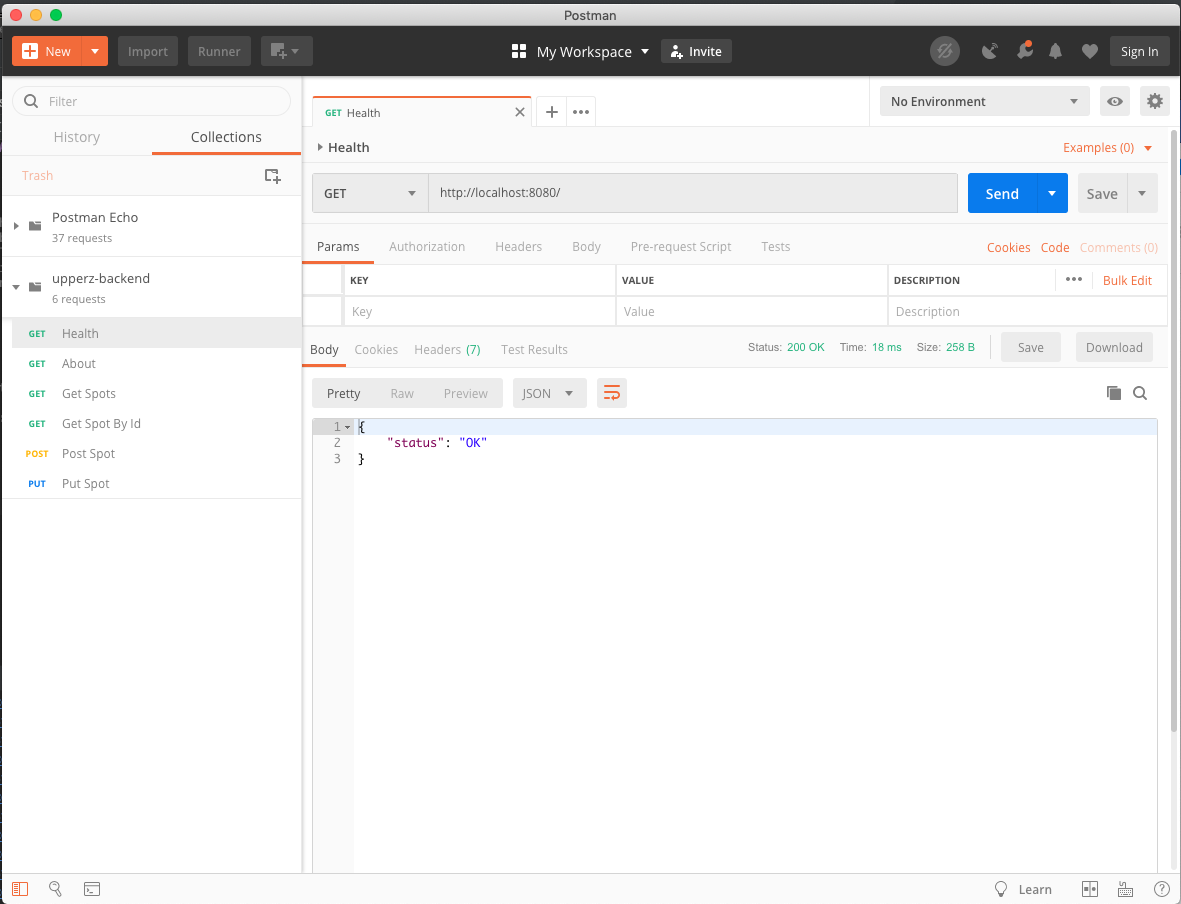
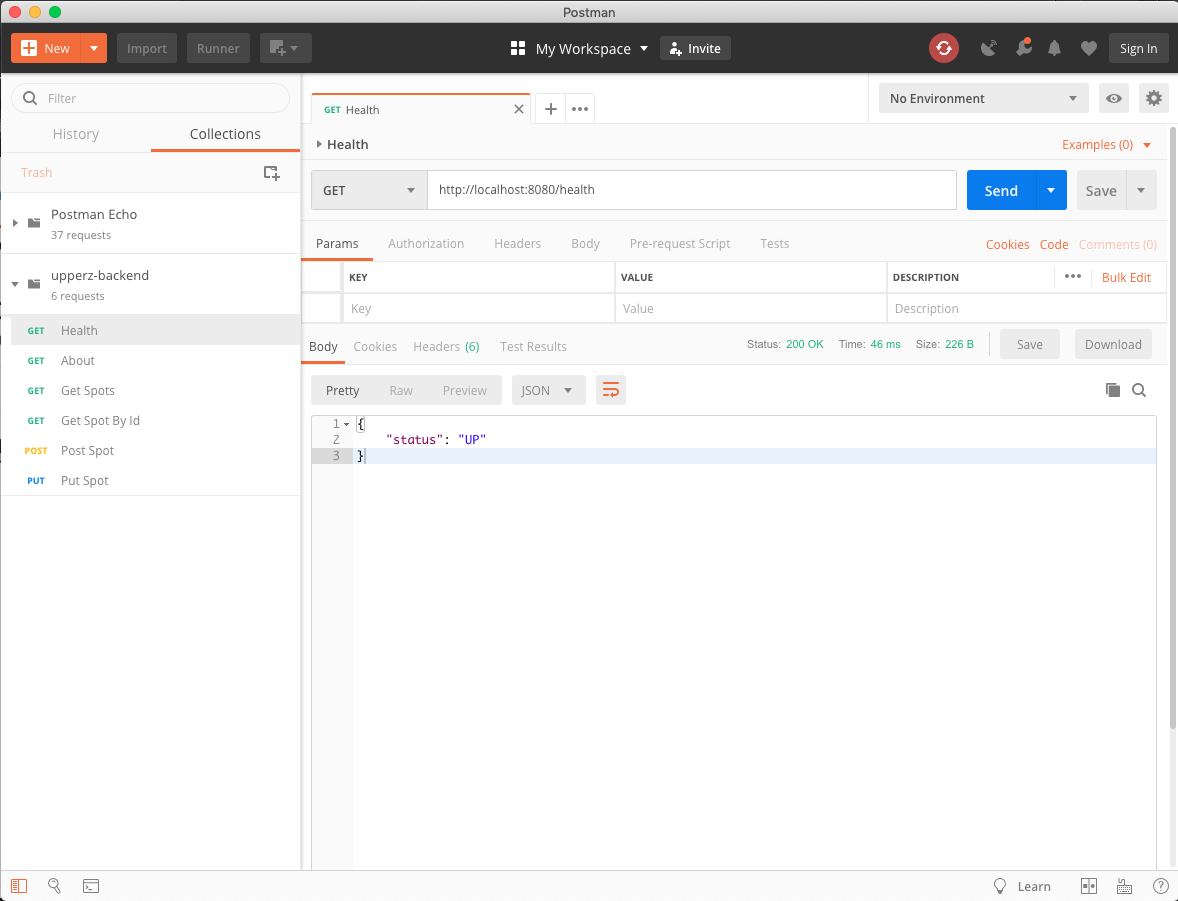
moving health endpoint

diff --git a/src/lib/paths/HealthPath.js b/src/lib/paths/HealthPath.js
@@ -1,0 +1,14 @@
+import BaseHealthPath from 'portico/lib/paths/HealthPath';
+import PublicRouter from 'portico/lib/routers/PublicRouter';
+
+export default class HealthPath extends BaseHealthPath {
+  get base() {
+    return `/health`;
+  }
+
+  constructor(server) {
+    super(server);
+    this.controller = new PublicRouter();
+    this.controller.get('/', this.getHealthCheck.bind(this));
+  }
+}

diff --git a/src/lib/Server.js b/src/lib/Server.js
@@ -1,6 +1,6 @@
 import Express from 'express';
 import BaseServer from 'portico/lib/Server';
-import HealthPath from 'portico/lib/paths/HealthPath';
+import HealthPath from './paths/HealthPath';
 import AboutPath from './paths/AboutPath';
 import v1SpotPath from './paths/v1/v1SpotPath';
 import SpotService from './services/SpotService';

diff --git a/README.md b/README.md
@@ -14,7 +14,7 @@ $ npm run run:api
 ### testing
 
 ```
-$ curl -s http://localhost:8080/ | jq
+$ curl -s http://localhost:8080/health | jq
   {
     "status": "OK"
   }
